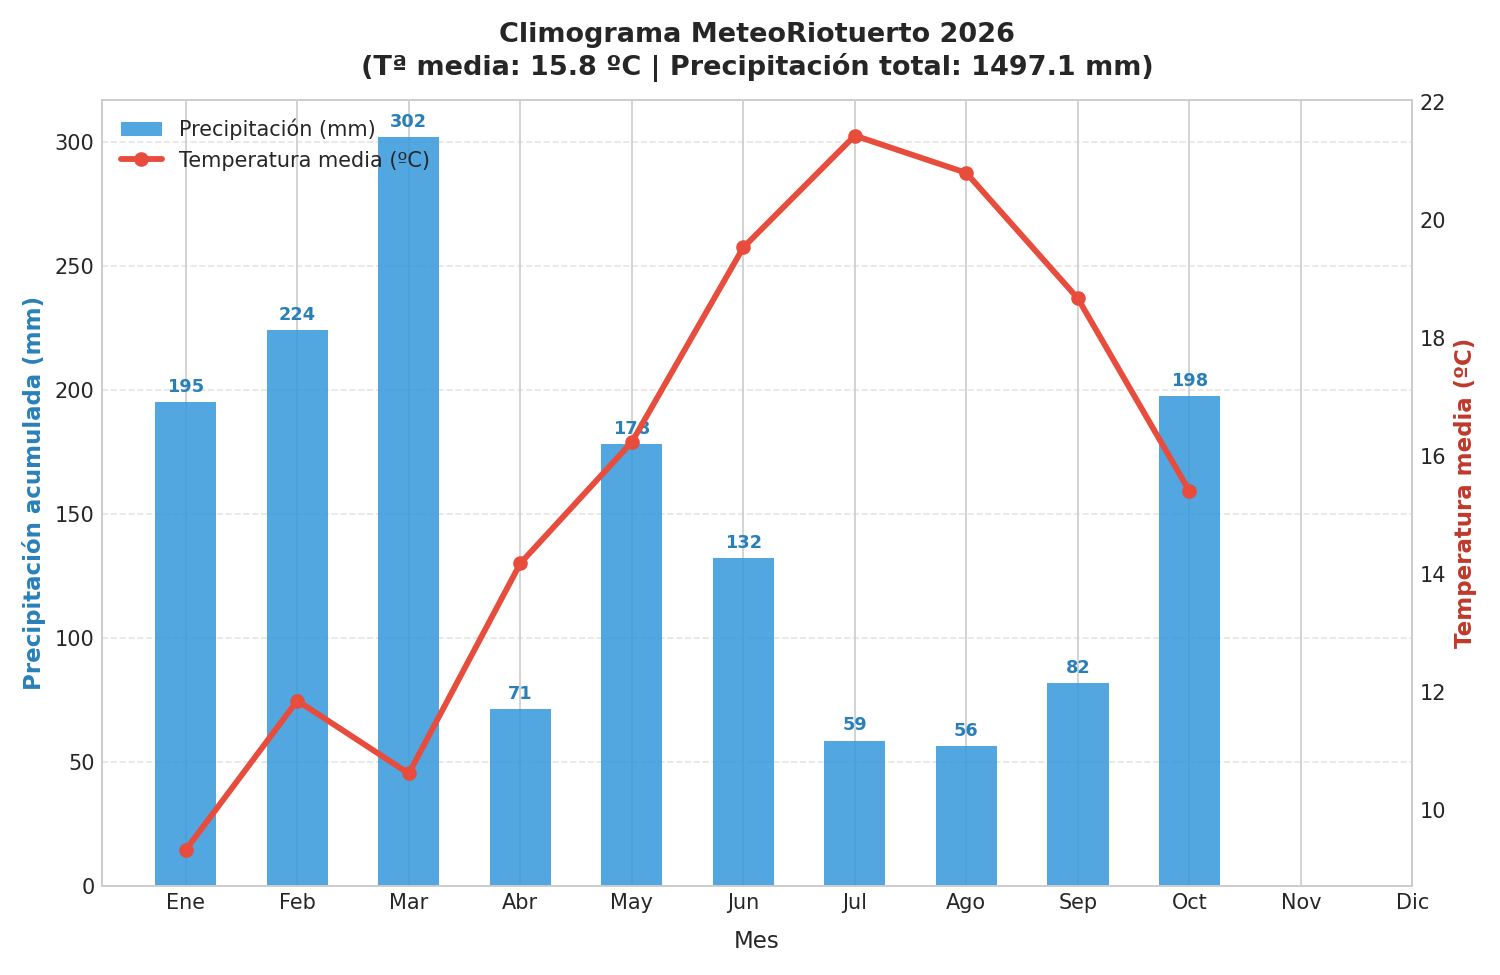
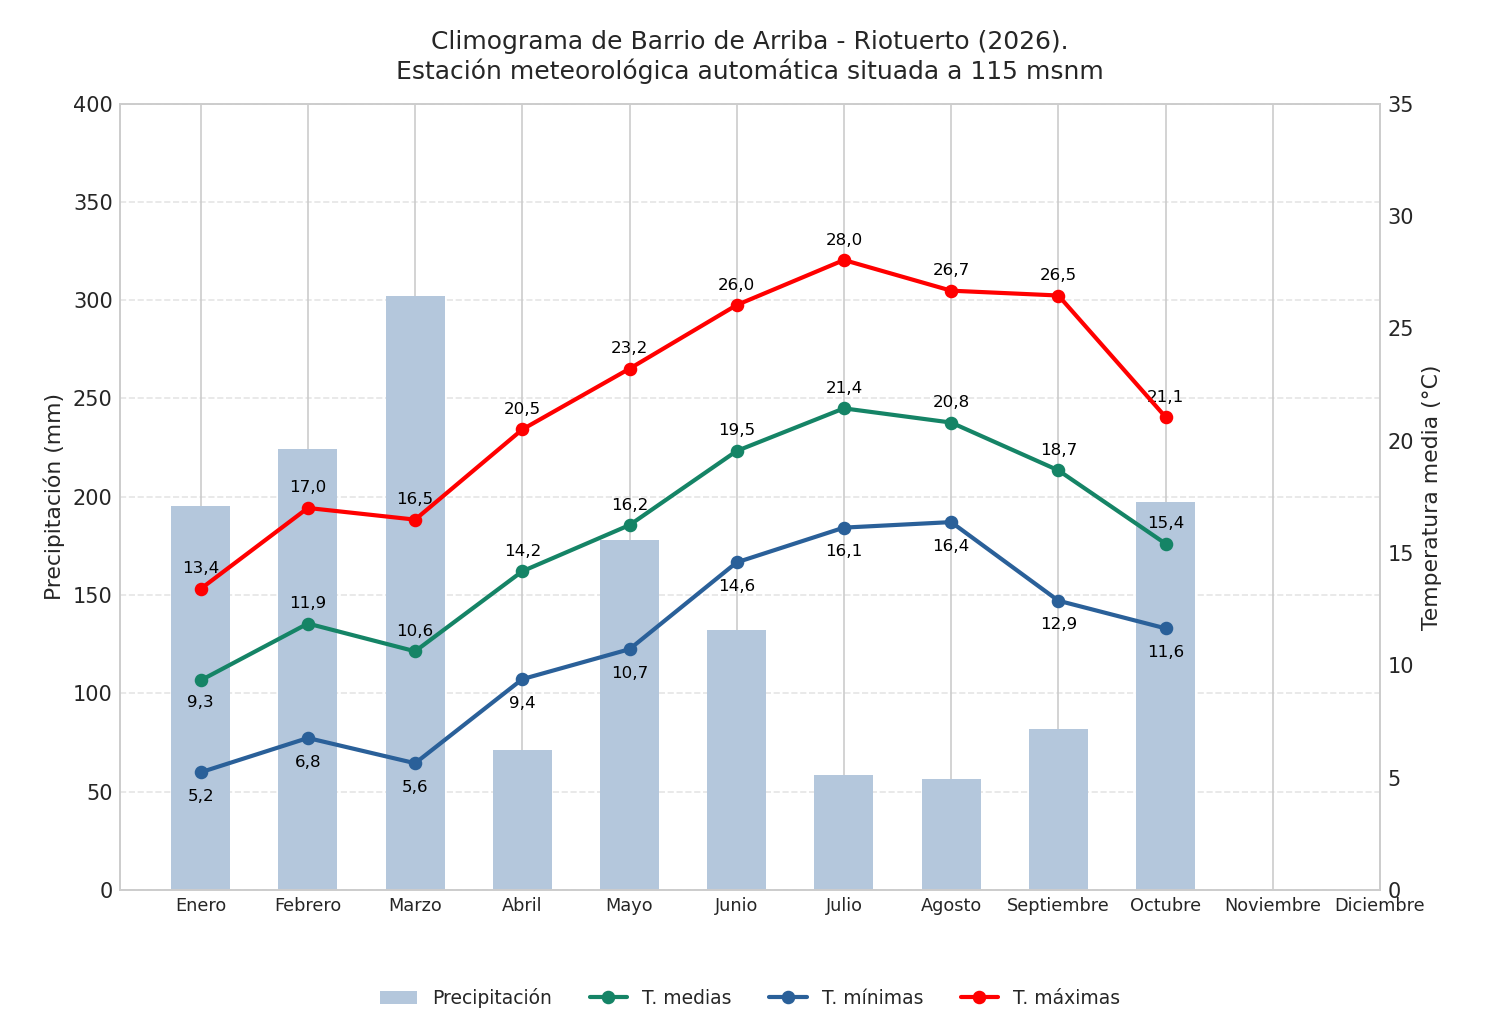
fix(2026): actualizar climograma a 3 temperaturas, calendarios numéricos diarios, aviso provisional y renombrar a riotuerto_2026_daily.csv

diff --git a/2026/README.md b/2026/README.md
@@ -2,6 +2,9 @@
 
 **Barrio de Arriba, Riotuerto (Cantabria, España)**
 
+> [!IMPORTANT]
+> **Datos parciales y provisionales:** El año 2026 se encuentra actualmente en curso. Las estadísticas, gráficos y acumulados reflejados en este almanaque corresponden al periodo observado hasta la última actualización (2026-10-22) y tienen carácter estrictamente provisional hasta el cierre definitivo del año natural.
+
 ## 📝 Descripción sinóptica
 
 El año 2026 en la estación meteorológica automática de Barrio de Arriba (Riotuerto) registra una temperatura media acumulada de **15.8 ºC** y una precipitación total de **1497.1 mm** distribuida en **151 días de lluvia apreciable (≥0,2 mm)**.
